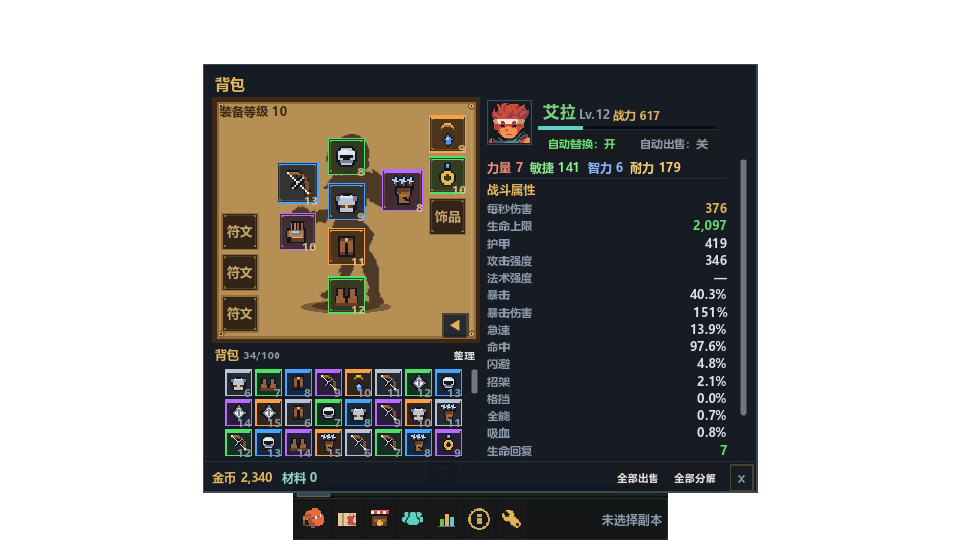
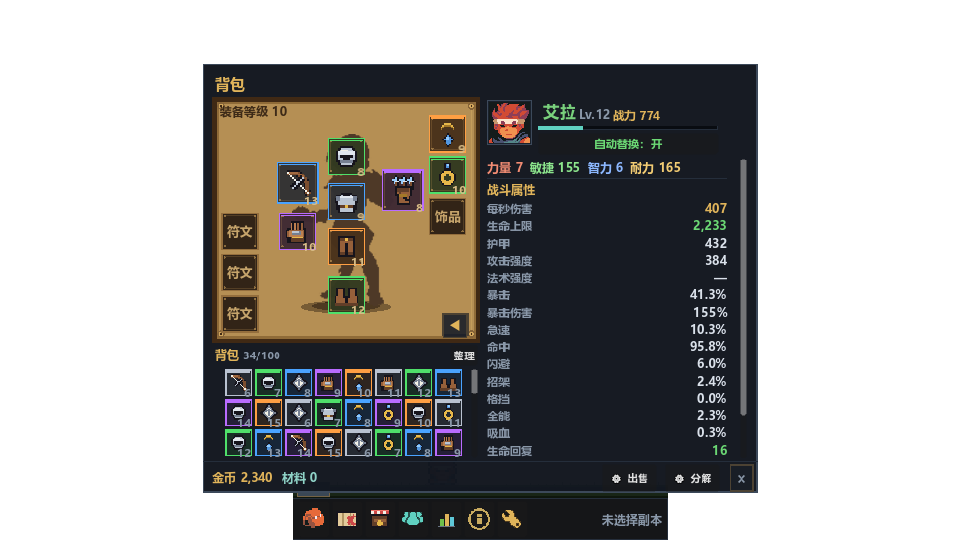
Add quality filters for auto and manual sell/dismantle

diff --git a/DETAILS.md b/DETAILS.md
@@ -4,7 +4,7 @@
 
 ## 基础信息
 
-- 版本：0.76.0
+- 版本：0.77.0
 - 引擎：Godot 4.7.2（GL Compatibility）
 - 逻辑分辨率：1280 × 720
 - 实际窗口：960 × 540，无边框、透明、可拖动
@@ -120,8 +120,10 @@
 - 悬浮背包内装备时，并排显示该装备与对应穿戴装备
 - 对比弹窗中先显示两件装备，再分别显示各自套装信息
 - 对比弹窗右侧装备标题为灰色「当前装备」，左侧悬停装备不再显示标题
-- 底部「全部出售」出售所有未锁定且未穿戴装备
-- 底部「全部分解」分解同类装备，材料收益为出售价的 50%
+- 底部「⚙ 出售」打开出售设置：自动开关、品质勾选、手动出售
+- 底部「⚙ 分解」打开分解设置：自动开关、品质勾选、手动分解
+- 自动出售/分解只处理未锁定背包装备，且只作用于勾选品质
+- 分解材料收益为出售价的 50%
 - 底部状态栏不显示角色等级，只显示副本 / 区域状态
 
 ## 商店

diff --git a/README.md b/README.md
@@ -2,7 +2,7 @@
 
 桌面宠物式像素挂机小游戏。没有技能和手动战斗，只有角色天赋、装备词条、套装和一路变强的数字。
 
-- 版本：0.76.0
+- 版本：0.77.0
 - 平台：Windows
 - 引擎：Godot 4.7.2
 
@@ -42,6 +42,7 @@
 - 背包、装备拖拽、锁定、出售、分解、一键出售、一键分解
 - 装备品质、随机词条、穿戴等级、套装效果
 - 背包悬浮装备时与对应穿戴装备并排对比
+- 出售/分解支持自动开关与按品质筛选
 - 商店刷新与价格浮动
 - 副本地图、难度选择、区域探索和首领
 - 副本悬浮显示推荐战力，底部显示当前/队伍等级与战力
@@ -53,7 +54,7 @@
 
 ![组队](shots/v390_team.png)
 
-![背包](shots/v630_bag.png)
+![背包](shots/v700_bag.png)
 
 ## 详细说明
 
